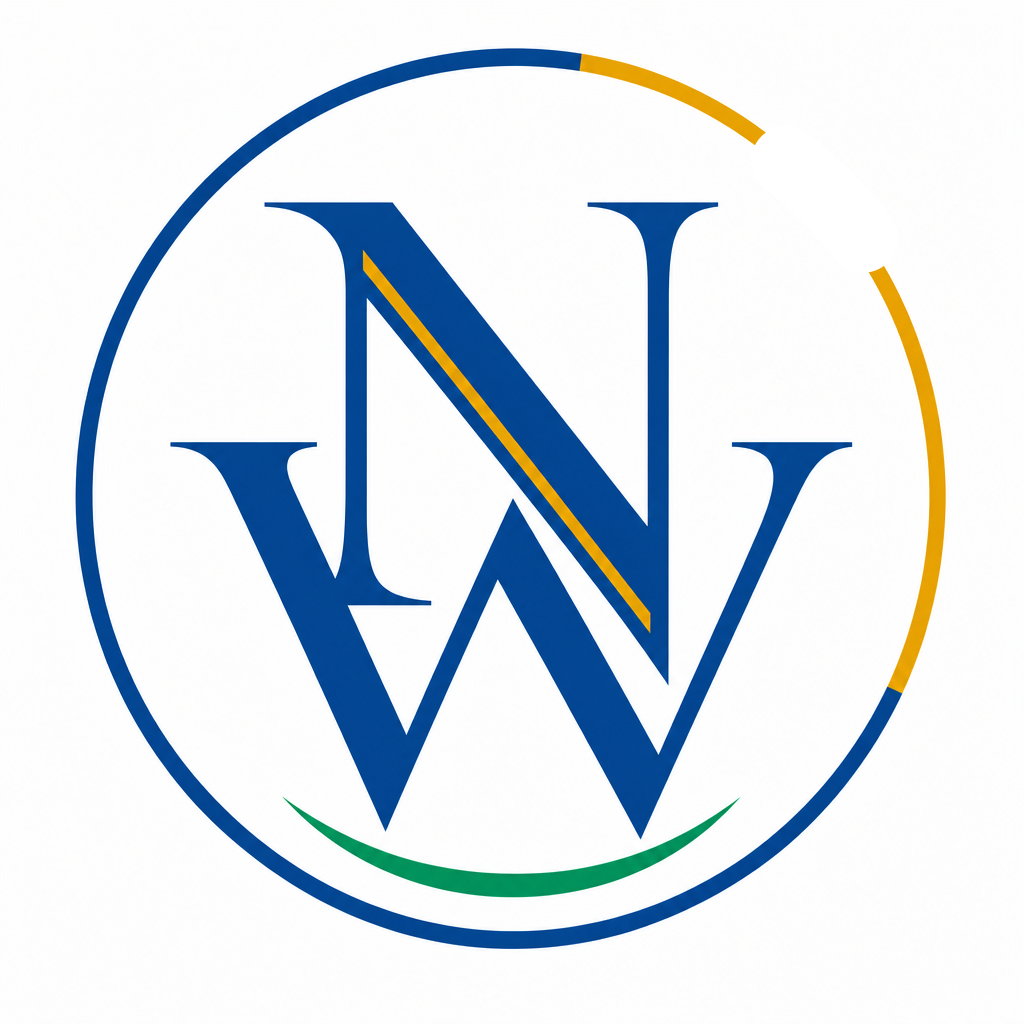
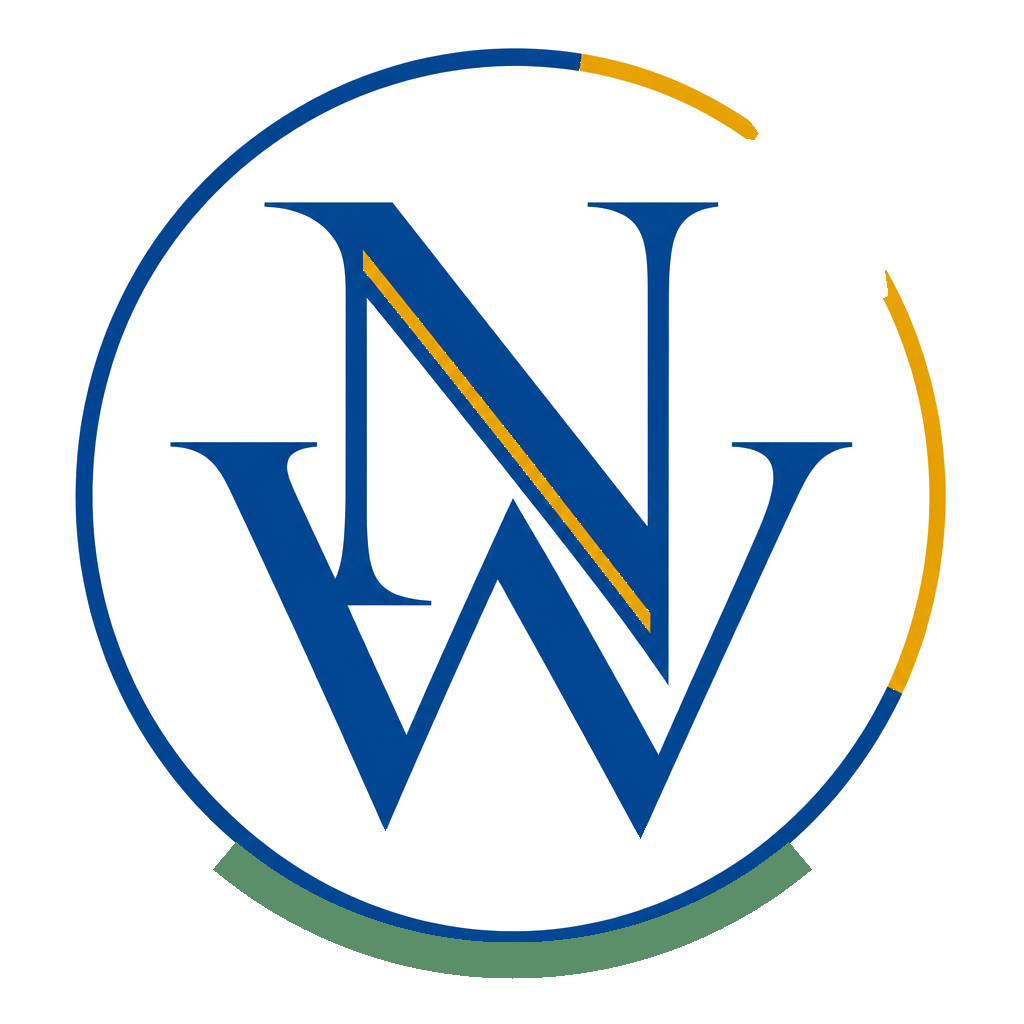
Ground the NW mark and open the ring cleanly at 45deg.
Remove the cut-tip bubble artifact and replace the inner smile with a single green ring floor; bump asset cache to v=6.

diff --git a/scripts/edit-nw-mark.js b/scripts/edit-nw-mark.js
@@ -1,44 +1,163 @@
 const sharp = require("sharp");
 const fs = require("fs");
+const { execSync } = require("child_process");
 
 async function main() {
-  const src = "public/nw-mark.png";
-  const meta = await sharp(src).metadata();
-  const w = meta.width;
-  const h = meta.height;
-  const cx = w / 2;
-  const cy = h / 2;
-  // Outer ring radius tuned to the mark framing
-  const r = Math.min(w, h) * 0.435;
-  const stroke = Math.max(12, Math.round(w * 0.024));
+  // Always start from the known-good closed monogram
+  execSync("git checkout 802bcef -- public/nw-mark.png", { stdio: "inherit" });
+  const buf = fs.readFileSync("public/nw-mark.png");
+  const w = 1024;
+  const h = 1024;
+  const cx = 512;
+  const cy = 512;
 
-  const rad = (d) => (d * Math.PI) / 180;
-  // Small open gap on the 45° (top-right) side
-  const a0 = rad(-52);
-  const a1 = rad(-38);
-  const x0 = cx + r * Math.cos(a0);
-  const y0 = cy + r * Math.sin(a0);
-  const x1 = cx + r * Math.cos(a1);
-  const y1 = cy + r * Math.sin(a1);
-
-  const erase = Buffer.from(
-    `<svg xmlns="http://www.w3.org/2000/svg" width="${w}" height="${h}">` +
-      `<path d="M ${x0.toFixed(2)} ${y0.toFixed(2)} A ${r} ${r} 0 0 1 ${x1.toFixed(2)} ${y1.toFixed(2)}" ` +
-      `fill="none" stroke="#000000" stroke-width="${stroke * 2.8}" stroke-linecap="round"/>` +
-      `</svg>`,
-  );
-
-  await sharp(src)
+  const { data, info } = await sharp(buf)
     .ensureAlpha()
-    .composite([{ input: erase, blend: "dest-out" }])
+    .raw()
+    .toBuffer({ resolveWithObject: true });
+
+  // Near-white → transparent (AA fringes were reading as a “bubble” on dark UIs)
+  for (let i = 0; i < data.length; i += 4) {
+    if (data[i] > 235 && data[i + 1] > 235 && data[i + 2] > 230) {
+      data[i] = 0;
+      data[i + 1] = 0;
+      data[i + 2] = 0;
+      data[i + 3] = 0;
+    }
+  }
+
+  // Erase original green smile everywhere (including light mint anti-alias)
+  for (let i = 0; i < data.length; i += 4) {
+    if (data[i + 3] < 5) continue;
+    const r0 = data[i];
+    const g0 = data[i + 1];
+    const b0 = data[i + 2];
+    const isGreen =
+      (g0 > r0 + 8 && g0 > b0 + 8 && g0 > 50 && r0 < 200 && b0 < 180) ||
+      (g0 > 180 && r0 > 120 && b0 > 150 && g0 >= r0 && g0 >= b0 && r0 < 250); // mint AA
+    if (isGreen) {
+      data[i] = 0;
+      data[i + 1] = 0;
+      data[i + 2] = 0;
+      data[i + 3] = 0;
+    }
+  }
+
+  // Also clear any leftover non-letter ink in the old smile band (inner bottom arc)
+  for (let y = Math.floor(h * 0.72); y < Math.floor(h * 0.92); y++) {
+    for (let x = Math.floor(w * 0.28); x < Math.floor(w * 0.72); x++) {
+      const rad = Math.hypot(x - cx, y - cy);
+      if (rad < 340 || rad > 410) continue;
+      const i = (y * w + x) * 4;
+      if (data[i + 3] < 5) continue;
+      const r0 = data[i];
+      const g0 = data[i + 1];
+      const b0 = data[i + 2];
+      // keep letter blue; clear green/mint/gray smile remnants
+      const isLetterBlue = b0 > r0 + 40 && b0 > g0 + 20 && b0 > 100 && r0 < 80;
+      if (!isLetterBlue) {
+        data[i] = 0;
+        data[i + 1] = 0;
+        data[i + 2] = 0;
+        data[i + 3] = 0;
+      }
+    }
+  }
+
+  // Open cut at ~45° — fully clear RGB+alpha (no grey ghost / bubble)
+  const cutA0 = (-57 * Math.PI) / 180;
+  const cutA1 = (-33 * Math.PI) / 180;
+  for (let y = 0; y < h; y++) {
+    for (let x = 0; x < w; x++) {
+      const rad = Math.hypot(x - cx, y - cy);
+      if (rad < 380 || rad > 500) continue;
+      const ang = Math.atan2(y - cy, x - cx);
+      if (ang >= cutA0 && ang <= cutA1) {
+        const i = (y * w + x) * 4;
+        data[i] = 0;
+        data[i + 1] = 0;
+        data[i + 2] = 0;
+        data[i + 3] = 0;
+      }
+    }
+  }
+
+  // Taper cut tips so ends don’t read as a thick “bubble” nub
+  const tip = (3 * Math.PI) / 180;
+  const rMidRing = 448;
+  for (let y = 0; y < h; y++) {
+    for (let x = 0; x < w; x++) {
+      const rad = Math.hypot(x - cx, y - cy);
+      if (rad < 380 || rad > 500) continue;
+      const ang = Math.atan2(y - cy, x - cx);
+      const onTip =
+        (ang >= cutA0 - tip && ang < cutA0) || (ang > cutA1 && ang <= cutA1 + tip);
+      if (!onTip) continue;
+      const dist = Math.abs(ang - (ang < cutA0 ? cutA0 : cutA1));
+      const maxHalf = 4 + 10 * (dist / tip); // thinner at the open end
+      if (Math.abs(rad - rMidRing) > maxHalf) {
+        const i = (y * w + x) * 4;
+        data[i] = 0;
+        data[i + 1] = 0;
+        data[i + 2] = 0;
+        data[i + 3] = 0;
+      }
+    }
+  }
+
+  // Single grounded green = bottom of the SAME ring (no inner smile, no detached outer bar)
+  const gA0 = (50 * Math.PI) / 180;
+  const gA1 = (130 * Math.PI) / 180;
+  const GR = 90;
+  const GG = 143;
+  const GB = 106;
+  const rMid = 448;
+  const halfThick = 18;
+
+  for (let y = 0; y < h; y++) {
+    for (let x = 0; x < w; x++) {
+      const dx = x - cx;
+      const dy = y - cy;
+      const rad = Math.hypot(dx, dy);
+      if (Math.abs(rad - rMid) > halfThick) continue;
+      const ang = Math.atan2(dy, dx);
+      if (ang < gA0 || ang > gA1) continue;
+      const i = (y * w + x) * 4;
+      data[i] = GR;
+      data[i + 1] = GG;
+      data[i + 2] = GB;
+      data[i + 3] = 255;
+    }
+  }
+
+  const out = await sharp(data, {
+    raw: { width: info.width, height: info.height, channels: 4 },
+  })
     .png()
-    .toFile("public/_nw-edit.png");
+    .toBuffer();
 
   for (const f of ["nw-mark.png", "favicon.png", "numora-mark.png"]) {
-    fs.copyFileSync("public/_nw-edit.png", `public/${f}`);
+    fs.writeFileSync(`public/${f}`, out);
   }
-  fs.unlinkSync("public/_nw-edit.png");
-  console.log("opened 45deg gap on", w, "px mark");
+
+  let gapGhost = 0;
+  let greenCount = 0;
+  let greenMinY = 9999;
+  for (let y = 0; y < h; y++) {
+    for (let x = 0; x < w; x++) {
+      const i = (y * w + x) * 4;
+      const rad = Math.hypot(x - cx, y - cy);
+      const ang = Math.atan2(y - cy, x - cx);
+      if (rad >= 380 && rad <= 500 && ang >= cutA0 && ang <= cutA1 && data[i + 3] > 0) {
+        gapGhost++;
+      }
+      if (data[i + 3] > 200 && data[i] === GR && data[i + 1] === GG) {
+        greenCount++;
+        greenMinY = Math.min(greenMinY, y);
+      }
+    }
+  }
+  console.log({ gapGhost, greenCount, greenMinY });
 }
 
 main().catch((e) => {

diff --git a/src/app/page.tsx b/src/app/page.tsx
@@ -58,7 +58,7 @@ export default async function HomePage() {
             <div className="animate-drift absolute h-40 w-40 translate-x-10 translate-y-8 rounded-full bg-emerald/20 blur-3xl" />
             <div className="animate-ring relative">
               <Image
-                src="/nw-mark.png?v=5"
+                src="/nw-mark.png?v=6"
                 alt={`${BRAND_NAME} mark — NW monogram`}
                 width={420}
                 height={420}

diff --git a/src/lib/report/exportPdf.ts b/src/lib/report/exportPdf.ts
@@ -40,7 +40,7 @@ function wrapLines(doc: jsPDF, text: string, maxWidth: number): string[] {
 
 async function loadLogoDataUrl(): Promise<string | null> {
   try {
-    const res = await fetch("/nw-mark.png?v=5");
+    const res = await fetch("/nw-mark.png?v=6");
     if (!res.ok) return null;
     const blob = await res.blob();
     return await new Promise((resolve, reject) => {

diff --git a/src/components/SiteHeader.tsx b/src/components/SiteHeader.tsx
@@ -102,7 +102,7 @@ export function SiteHeader({ email }: Props) {
       <div className="flex flex-wrap items-center justify-between gap-3">
         <Link href="/" className="flex shrink-0 items-center gap-2.5">
           <Image
-            src="/nw-mark.png?v=5"
+            src="/nw-mark.png?v=6"
             alt={BRAND_NAME}
             width={36}
             height={36}

diff --git a/src/app/layout.tsx b/src/app/layout.tsx
@@ -19,8 +19,8 @@ export const metadata: Metadata = {
   description:
     "Personal numerology reports from Pythagorean, Chaldean, Vedic, and Lo Shu traditions. Belief-based insight for self-reflection.",
   icons: {
-    icon: "/favicon.png?v=5",
-    apple: "/nw-mark.png?v=5",
+    icon: "/favicon.png?v=6",
+    apple: "/nw-mark.png?v=6",
   },
 };
 
